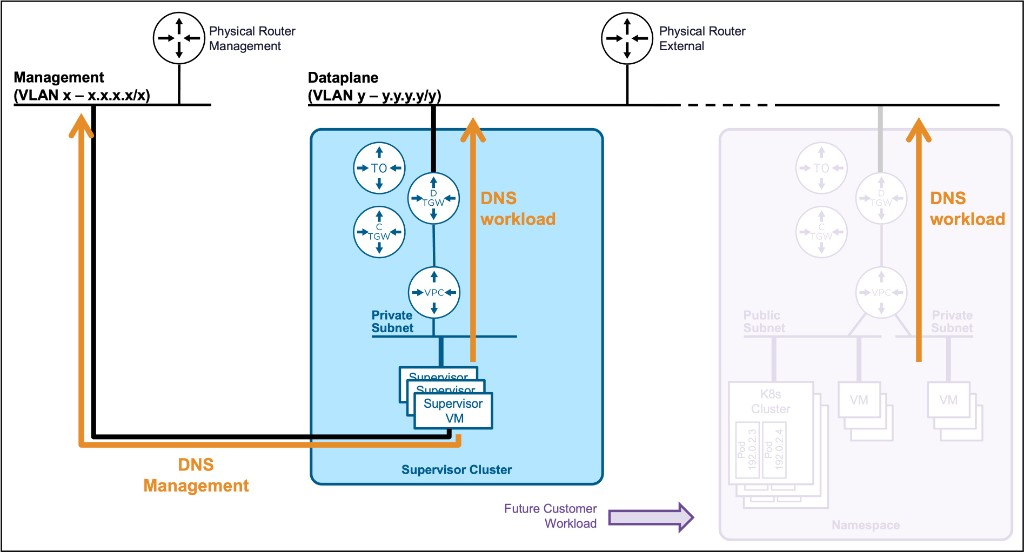
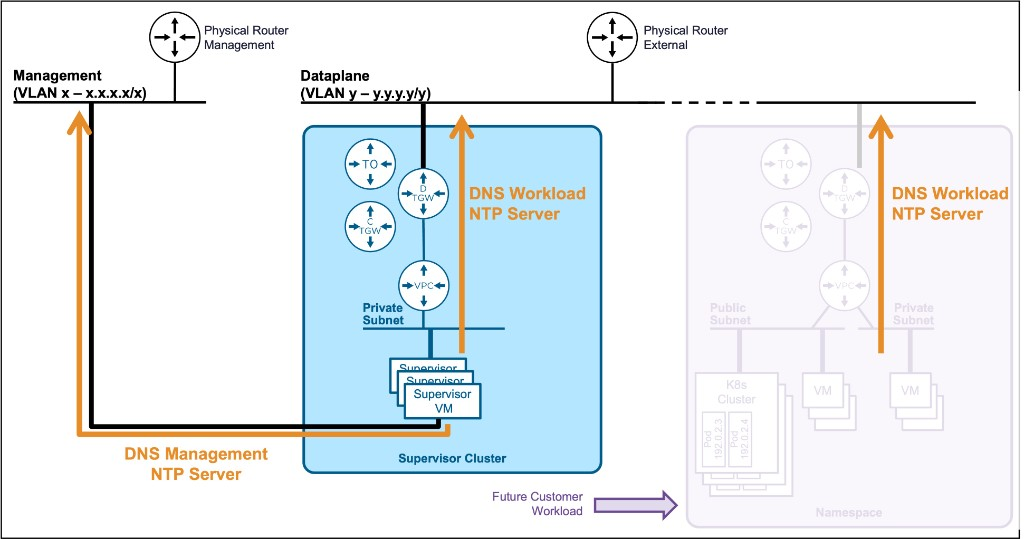
Add NTP reachability check; rename to 'Check Network Connectivity'
app.py:
- New _ntp_check() helper: vmkping -S <stack> to NTP server from the
  custom TCP/IP stack (ICMP only — ESXi cannot send real NTP from a
  custom stack; ICMP is the best available check)
- Both Management and Workload test sets now include NTP reachability:
  mgt_ntp_check / wld_ntp_check (pass | fail | skip if no NTP server)

index_clarity.html:
- Button and modal renamed 'Check DNS Connectivity' → 'Check Network
  Connectivity' everywhere (button, modal title, info banner, messages)
- NTP reachability result row added to Management and Workload result
  tables (hidden when skipped)
- mgtOk() / wldOk() now require NTP pass-or-skip in addition to DNS
- Success banner: 'network, NTP, and DNS connectivity'
- Updated DNS architecture thumbnail (nsx-vpc-dns.jpg v3)

Changed region(s): [[0.0, 0.0, 1.0, 0.9796], [0.6875, 0.564, 0.7812, 0.6827], [0.9688, 0.9796, 1.0, 1.0]]

diff --git a/app/templates/index_clarity.html b/app/templates/index_clarity.html
@@ -1902,7 +1902,7 @@
                 <!-- Flex spacer — always pushes right-side buttons to the right -->
                 <div style="flex:1;"></div>
 
-                <!-- Check DNS Connectivity — step 2 only; grey → green/red after test -->
+                <!-- Check Network Connectivity — step 2 only; grey → green/red after test -->
                 <button x-show="wizardStep === 2 && wizardConfig.port_group_id && wizardConfig.first_ip && wizardConfig.gateway_cidr && wizardConfig.dns_servers"
                         :disabled="!!firstIpError()"
                         @click="dnsCheckModal.show = true; dnsCheckModal.done = false; dnsCheckModal.result = null; dnsCheckModal.error = ''; fetchDnsCheckHosts();"
@@ -1914,7 +1914,7 @@
                         }"
                         style="margin-right:0.5rem; font-size:0.76rem;">
                   <i :class="!dnsCheckModal.done ? 'fas fa-network-wired' : (dnsCheckModal.result && dnsCheckModal.result.gw_ping==='pass' && dnsCheckModal.result.dns_ping==='pass' && dnsCheckModal.result.dns_resolve==='pass' && !dnsCheckModal.result.wld_error && dnsCheckModal.result.wld_gw_ping==='pass' && dnsCheckModal.result.wld_dns_ping==='pass' && dnsCheckModal.result.wld_dns_resolve==='pass' ? 'fas fa-check-circle' : 'fas fa-times-circle')"
-                     style="font-size:0.68rem; margin-right:0.3rem;"></i>Check DNS Connectivity
+                     style="font-size:0.68rem; margin-right:0.3rem;"></i>Check Network Connectivity
                 </button>
 
                 <button x-show="wizardStep >= 1 && wizardStep < 5"
@@ -3503,7 +3503,7 @@
   </div>
 
 
-  <!-- ═══ Check DNS Connectivity modal ════════════════════════════════ -->
+  <!-- ═══ Check Network Connectivity modal ════════════════════════════ -->
   <div x-show="dnsCheckModal.show" x-cloak
        x-transition:enter="transition ease-out duration-200"
        x-transition:enter-start="opacity-0"
@@ -3522,7 +3522,7 @@
           </button>
           <h3 class="modal-title" style="font-size:1rem;">
             <i class="fas fa-network-wired" style="color:#0072a3; margin-right:0.4rem;"></i>
-            Check DNS Connectivity
+            Check Network Connectivity
           </h3>
         </div>
 
@@ -3556,23 +3556,29 @@
                       <strong>This tool will:</strong><br>
                       · <strong>Enable SSH temporarily</strong> if not already enabled<br>
                       <br>
-                      · <strong>Test DNS — Management</strong><br>
+                      · <strong>Test Network — Management</strong><br>
                       &nbsp;&nbsp;— Create a temp VMkernel in
                          VLAN <code x-text="dnsCheckModal.preview.mgt_vlan ?? '?'"></code>
                          with IP <code x-text="(wizardConfig.first_ip||'').split('-')[0]||'?'"></code><br>
                       &nbsp;&nbsp;— Ping gateway
                          <code x-text="wizardConfig.gateway_cidr ? wizardConfig.gateway_cidr.split('/')[0] : '?'"></code>
                          to verify layer-3 connectivity<br>
+                      &nbsp;&nbsp;— Ping NTP server
+                         <code x-text="(wizardConfig.ntp_servers||'').split(',')[0].trim()||'?'"></code>
+                         (no ability to send a real NTP request)<br>
                       &nbsp;&nbsp;— Ping DNS
                          <code x-text="(wizardConfig.dns_servers||'').split(',')[0].trim()||'?'"></code>
                          and resolve the vCenter FQDN<br>
                       <br>
-                      · <strong>Test DNS — Workload</strong><br>
+                      · <strong>Test Network — Workload</strong><br>
                       &nbsp;&nbsp;— Create a temp VMkernel in
                          VLAN <code x-text="dnsCheckModal.preview.wld_vlan ?? '?'"></code>
                          with IP <code x-text="dnsCheckModal.preview.wld_preview_ip || '?'"></code><br>
                       &nbsp;&nbsp;— Ping gateway
                          <code x-text="dnsCheckModal.preview.wld_gateway || '?'"></code><br>
+                      &nbsp;&nbsp;— Ping NTP server
+                         <code x-text="(wizardConfig.ntp_servers||'').split(',')[0].trim()||'?'"></code>
+                         (no ability to send a real NTP request)<br>
                       &nbsp;&nbsp;— Ping DNS
                          <code x-text="(wizardConfig.dns_servers_workload||wizardConfig.dns_servers||'').split(',')[0].trim()||'?'"></code>
                          and resolve
@@ -3657,8 +3663,8 @@
               <template x-if="!dnsCheckModal.error && dnsCheckModal.result">
                 <div x-data="{
                   get r()   { return dnsCheckModal.result; },
-                  get mgtOk()  { return this.r && this.r.gw_ping==='pass' && this.r.dns_ping==='pass' && this.r.dns_resolve==='pass'; },
-                  get wldOk()  { return this.r && this.r.wld_gw_ping==='pass' && this.r.wld_dns_ping==='pass' && this.r.wld_dns_resolve==='pass'; },
+                  get mgtOk()  { return this.r && this.r.gw_ping==='pass' && (this.r.mgt_ntp_check==='pass'||this.r.mgt_ntp_check==='skip'||!this.r.mgt_ntp_server) && this.r.dns_ping==='pass' && this.r.dns_resolve==='pass'; },
+                  get wldOk()  { return this.r && this.r.wld_gw_ping==='pass' && (this.r.wld_ntp_check==='pass'||this.r.wld_ntp_check==='skip'||!this.r.wld_ntp_server) && this.r.wld_dns_ping==='pass' && this.r.wld_dns_resolve==='pass'; },
                   get allPass(){ return this.mgtOk && (this.r.wld_error ? false : this.wldOk); }
                 }">
 
@@ -3689,6 +3695,21 @@
                             <span x-text="r.gw_ping==='pass'?'Reachable':'Not reachable'"></span>
                           </span>
                           <div x-show="r.gw_ping_output" style="font-size:0.72rem;color:#6e777b;font-family:monospace;margin-top:0.2rem;white-space:pre-wrap;max-height:4.5rem;overflow-y:auto;" x-text="r.gw_ping_output"></div>
+                        </td>
+                      </tr>
+                      <!-- NTP check row (management) -->
+                      <tr x-show="r.mgt_ntp_check != null && r.mgt_ntp_check !== 'skip'" style="border-bottom:1px solid #f0f0f0;">
+                        <td style="padding:0.4rem 0.7rem 0.4rem 0; white-space:nowrap; color:#2d3748; font-weight:600;">
+                          <i class="fas fa-clock" style="color:#6e777b; margin-right:0.4rem; font-size:0.78rem;"></i>
+                          NTP reachability
+                          <span style="font-weight:400; color:#6e777b;" x-text="r.mgt_ntp_server ? '(' + r.mgt_ntp_server + ')' : ''"></span>
+                        </td>
+                        <td style="padding:0.35rem 0.5rem;">
+                          <span :style="{color:r.mgt_ntp_check==='pass'?'#1a7a1a':'#c00',fontWeight:'600',fontSize:'0.82rem'}">
+                            <i :class="r.mgt_ntp_check==='pass'?'fas fa-check-circle':'fas fa-times-circle'" style="margin-right:0.3rem;"></i>
+                            <span x-text="r.mgt_ntp_check==='pass'?'Reachable (no ability to send a real NTP request)':'Not reachable'"></span>
+                          </span>
+                          <div x-show="r.mgt_ntp_detail" style="font-size:0.72rem;color:#6e777b;font-family:monospace;margin-top:0.2rem;white-space:pre-wrap;max-height:4.5rem;overflow-y:auto;" x-text="r.mgt_ntp_detail"></div>
                         </td>
                       </tr>
                       <tr style="border-bottom:1px solid #f0f0f0;">
@@ -3758,6 +3779,21 @@
                             <div x-show="r.wld_gw_ping_output" style="font-size:0.72rem;color:#6e777b;font-family:monospace;margin-top:0.2rem;white-space:pre-wrap;max-height:4.5rem;overflow-y:auto;" x-text="r.wld_gw_ping_output"></div>
                           </td>
                         </tr>
+                        <!-- NTP check row (workload) -->
+                        <tr x-show="r.wld_ntp_check != null && r.wld_ntp_check !== 'skip'" style="border-bottom:1px solid #f0f0f0;">
+                          <td style="padding:0.4rem 0.7rem 0.4rem 0; white-space:nowrap; color:#2d3748; font-weight:600;">
+                            <i class="fas fa-clock" style="color:#6e777b; margin-right:0.4rem; font-size:0.78rem;"></i>
+                            NTP reachability
+                            <span style="font-weight:400; color:#6e777b;" x-text="r.wld_ntp_server ? '(' + r.wld_ntp_server + ')' : ''"></span>
+                          </td>
+                          <td style="padding:0.35rem 0.5rem;">
+                              <span :style="{color:r.wld_ntp_check==='pass'?'#1a7a1a':'#c00',fontWeight:'600',fontSize:'0.82rem'}">
+                              <i :class="r.wld_ntp_check==='pass'?'fas fa-check-circle':'fas fa-times-circle'" style="margin-right:0.3rem;"></i>
+                              <span x-text="r.wld_ntp_check==='pass'?'Reachable (no ability to send a real NTP request)':'Not reachable'"></span>
+                            </span>
+                            <div x-show="r.wld_ntp_detail" style="font-size:0.72rem;color:#6e777b;font-family:monospace;margin-top:0.2rem;white-space:pre-wrap;max-height:4.5rem;overflow-y:auto;" x-text="r.wld_ntp_detail"></div>
+                          </td>
+                        </tr>
                         <tr style="border-bottom:1px solid #f0f0f0;">
                           <td style="padding:0.4rem 0.7rem 0.4rem 0; white-space:nowrap; color:#2d3748; font-weight:600;">
                             <i class="fas fa-server" style="color:#6e777b; margin-right:0.4rem; font-size:0.78rem;"></i>
@@ -3797,12 +3833,12 @@
                                 fontSize:'0.83rem',color:allPass?'#1a7a1a':'#c00',fontWeight:'600'}">
                     <i :class="allPass?'fas fa-check-circle':'fas fa-exclamation-circle'" style="margin-right:0.35rem;"></i>
                     <span x-text="allPass
-                      ? 'All checks passed - Supervisor VMs will have DNS connectivity.'
+                      ? 'All checks passed — Supervisor VMs will have network, NTP, and DNS connectivity.'
                       : (mgtOk && r.wld_error)
-                        ? 'Management DNS OK — Workload DNS check could not run: ' + r.wld_error
+                        ? 'Management OK — Workload check could not run: ' + r.wld_error
                         : mgtOk
-                          ? 'Management DNS OK — Workload DNS check failed. Verify DVLAN and Workload DNS settings.'
-                          : 'Management DNS check failed — verify Port Group, gateway, and DNS settings.'">
+                          ? 'Management OK — Workload check failed. Verify DVLAN, NTP, and Workload DNS settings.'
+                          : 'Management check failed — verify Port Group, gateway, NTP, and DNS settings.'">
                     </span>
                   </div>
 
@@ -5968,6 +6004,7 @@
               dns_servers:              this.wizardConfig.dns_servers,
               dns_servers_workload:     this.wizardConfig.dns_servers_workload,
               dns_workload_test_host:   this.wizardConfig.dns_workload_test_host || 'github.com',
+              ntp_servers:              this.wizardConfig.ntp_servers || '',
               vpc_connectivity_profile_path: this.wizardConfig.vpc_connectivity_profile_path,
               nsx_project_path: this.wizardConfig.nsx_project_path,
               search_domain:   this.wizardConfig.search_domains,

diff --git a/app/app.py b/app/app.py
@@ -5144,15 +5144,39 @@ def check_dns_connectivity():
         return jsonify({"success": False, "error": "No DNS server specified"})
     dns_ip = dns_list[0]
 
+    ntp_raw  = body.get("ntp_servers", "")
+    ntp_list = [s.strip() for s in re.split(r'[,\s]+', ntp_raw) if s.strip()]
+    ntp_ip   = ntp_list[0] if ntp_list else ""
+
+    def _ntp_check(run_fn, stack_name, ntp_server, timeout=12):
+        """Check NTP server reachability via ICMP from the custom TCP/IP stack.
+
+        Uses vmkping -S <stack> so the ping is routed through the dedicated
+        VLAN stack (same interface/routing as the gateway ping), not the
+        default management vmk.
+
+        Note: ESXi tools cannot send a real NTP protocol request from a custom
+        stack — nc and Python sockets always use the default management stack.
+        ICMP reachability from the correct VLAN is the best we can do here.
+
+        Returns ('pass'|'fail', raw_ping_output)
+        """
+        p_out, p_err = run_fn(
+            f"vmkping -S {stack_name} -c 3 -W 2 {ntp_server} 2>&1", timeout=12)
+        ping_ok = "0% packet loss" in p_out or "bytes from" in p_out
+        return ("pass" if ping_ok else "fail"), (p_out + p_err).strip()
+
     result = {
         "success": False, "error": "",
         "host": "", "vmk": "", "vlan_id": None, "ip_used": first_ip,
         "gw_ping": None, "dns_ping": None, "dns_resolve": None,
+        "mgt_ntp_check": None, "mgt_ntp_server": ntp_ip, "mgt_ntp_detail": "",
         "gw_ping_output": "", "dns_ping_output": "", "dns_resolve_output": "",
         "dns_domain": "",
-        # Workload DNS test results
+        # Workload network test results
         "wld_vmk": "", "wld_vlan_id": None, "wld_ip_used": "", "wld_gateway": "",
         "wld_gw_ping": None, "wld_dns_ping": None, "wld_dns_resolve": None,
+        "wld_ntp_check": None, "wld_ntp_server": ntp_ip, "wld_ntp_detail": "",
         "wld_gw_ping_output": "", "wld_dns_ping_output": "", "wld_dns_resolve_output": "",
         "wld_dns_domain": "", "wld_error": "",
     }
@@ -5275,6 +5299,14 @@ def check_dns_connectivity():
             gw_pass = "0% packet loss" in gw_out or "bytes from" in gw_out
             result["gw_ping"]        = "pass" if gw_pass else "fail"
             result["gw_ping_output"] = (gw_out + gw_err).strip()
+
+            # 1b. NTP check — vmkping via stack + nc UDP/123
+            if ntp_ip:
+                result["mgt_ntp_check"], result["mgt_ntp_detail"] = \
+                    _ntp_check(_run, mgt_stack, ntp_ip)
+            else:
+                result["mgt_ntp_check"] = "skip"
+                result["mgt_ntp_detail"] = ""
 
             # 2. DNS server ping — uses the stack's default route, so it reaches
             #    the DNS server even when it's cross-subnet (no /32 hack needed).
@@ -5547,6 +5579,14 @@ def check_dns_connectivity():
                                                      "bytes from" in _wgw_o)
                                         result["wld_gw_ping"]        = "pass" if _wgw_pass else "fail"
                                         result["wld_gw_ping_output"] = (_wgw_o + _wgw_e).strip()
+
+                                        # a2. NTP check — vmkping via stack + nc UDP/123
+                                        if ntp_ip:
+                                            result["wld_ntp_check"], result["wld_ntp_detail"] = \
+                                                _ntp_check(_wrun, wld_stack, ntp_ip)
+                                        else:
+                                            result["wld_ntp_check"] = "skip"
+                                            result["wld_ntp_detail"] = ""
 
                                         # b. Ping workload DNS server
                                         #    Default route on stack routes via workload GW
